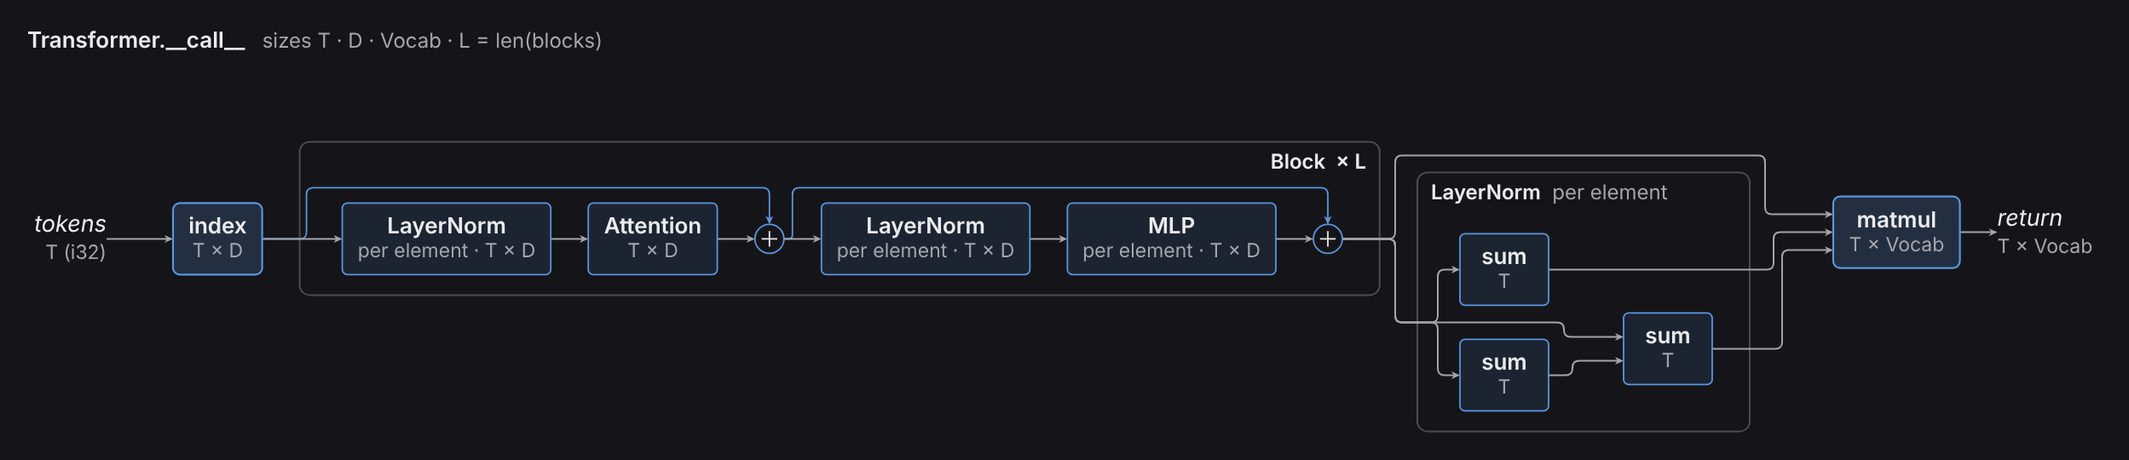
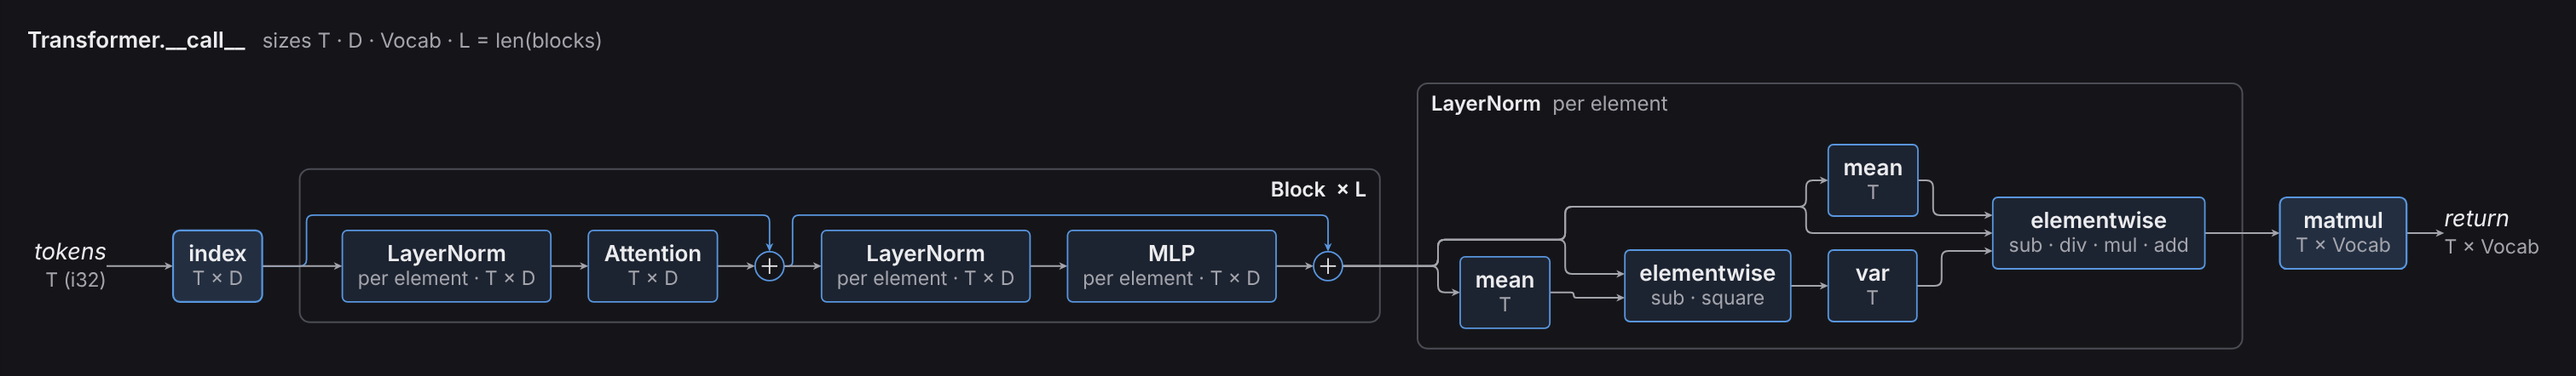
Diagrams: opened calls have one way in and out; elementwise joins are boxes
Hidden arithmetic that joins values from different boxes becomes one
'elementwise' box naming its ops, so an opened call's dataflow is complete
and edges from outside touch only its entry and exit ports. A sum divided
by its count is labelled mean, the sum inside jnp.var/std var. A second
layout pass orders entry ports by where their values come from. Fixes the
tangle around the final LayerNorm at depth 2 and in Mixer's scan.

Claude-Session: https://claude.ai/code/session_019hQ6YQybxuL6LJ78FKTkk6

diff --git a/src/expex/_diagram.html b/src/expex/_diagram.html
@@ -144,13 +144,18 @@ function show(k, anchor) {
     const s = Math.max(base.w / minW, base.h / minH);
     base = {x: base.x - (minW * s - base.w) / 2, y: base.y, w: minW * s, h: minH * s};
   }
-  if (anchor && vb) {  // keep the clicked call where it was on the screen
+  if (anchor && vb) {  // keep the clicked call where it was on the screen, zoomed out if the figure grew
     const g = el.querySelector(`[data-box="${anchor.box}"]`);
+    const grow = Math.max(1, base.w / vb.w, base.h / vb.h);
+    vb = {...vb, w: vb.w * grow, h: vb.h * grow};
     setViewBox();
     if (g) {
       const r = g.getBoundingClientRect(), s = el.getScreenCTM().a;
       vb = {...vb, x: vb.x + (r.left - anchor.left) / s, y: vb.y + (r.top - anchor.top) / s};
     }
+    const clamp = (v, lo, hi) => Math.min(Math.max(v, Math.min(lo, hi)), Math.max(lo, hi));
+    vb.x = clamp(vb.x, base.x + base.w - vb.w, base.x);  // and the whole figure in view, if it fits
+    vb.y = clamp(vb.y, base.y + base.h - vb.h, base.y);
   } else vb = {...base};
   setViewBox();
   wire(el);

diff --git a/src/expex/_diagram.py b/src/expex/_diagram.py
@@ -264,7 +264,10 @@ class _Builder:
         self.fail = -1  # the failing call's box (see ``error``)
         self.error: dict[str, Any] | None = None
         self.boxes: list[dict[str, Any]] = []
-        self.atoms: list[list[Any]] = []  # [box, label or None (passed through), kind]
+        self.atoms: list[list[Any]] = []  # [box, label or None (passed through), kind, primitive]
+        self.sums: dict[Any, tuple[int, int]] = {}  # a reduce_sum's result (through reshapes) -> (atom, count)
+        self.within: list[str] = []  # the names of the jit-ed functions being walked (``_var``, ...)
+        self.made: dict[Any, str] = {}  # each variable's primitive
         self.data: list[bool] = []  # depends on an input (else on constants and sizes only)
         self.near: list[frozenset[int]] = []  # the nearest drawn atoms each atom is computed from
         self.edges: list[tuple[int, int, int]] = []  # (from atom, to atom, type index)
@@ -288,7 +291,7 @@ class _Builder:
 
     def atom(self, box: int, label: str | None, kind: str, ins: list[Any], env: dict[Any, list[int]], eqn: Any = None) -> int:  # fmt: skip
         me = len(self.atoms)
-        self.atoms.append([box, label, kind])
+        self.atoms.append([box, label, kind, eqn.primitive.name if eqn is not None else ""])
         if self.flops is not None:
             n = _cost.flops(types.SimpleNamespace(eqns=[eqn]), []).value if eqn is not None else 0
             self.flops.append(float(n or 0) * self.mult)
@@ -336,15 +339,45 @@ class _Builder:
                 body = self.sub(p["body_jaxpr"], box, srcs(eqn.invars[nc : nc + nb]) + init)
                 outs = [a + c for a, c in zip(init, body)]
             elif (subs := [j for _, j in sub_jaxprs(p)]) and len(subs[0].invars) == len(eqn.invars):
+                self.within.append(str(p.get("name", "")))
                 outs = self.sub(subs[0], b, srcs(eqn.invars))  # jit, custom_jvp, remat, ...: inline
+                self.within.pop()
             if outs is None:
                 label = OPS.get(name)
+                if name == "reduce_sum" and self.within and self.within[-1].lstrip("_") == "var":
+                    label = "var"  # inside jnp.var (or std): the sum of squared deviations
+                self.mean(eqn, env)
                 if name == "gather" and not any(self.data[a] for a in _get(env, eqn.invars[1])):
                     label = None  # a slice by sizes, not a lookup
                 if name == "add" and self.joins(eqn, env):
                     label = "+"  # two computed values of one shape: a residual or skip connection
                 outs = [[self.atom(b, label, "op", eqn.invars, env, eqn)]] * len(eqn.outvars)
+                if name == "reduce_sum" and label:
+                    shape = getattr(eqn.invars[0].aval, "shape", ())
+                    self.sums[eqn.outvars[0]] = (outs[0][0], math.prod(shape[a] for a in p["axes"]) if shape else 1)
             env.update({o: s for o, s in zip(eqn.outvars, outs) if _type(o.aval) is not None})
+            self.made.update((o, name) for o in eqn.outvars)
+
+    def mean(self, eqn: Any, env: dict[Any, list[int]]) -> None:
+        """Relabel a ``sum`` divided by the number of elements it adds up (``jnp.mean``) as ``mean``."""
+        name, ins = eqn.primitive.name, eqn.invars
+        if not ins or type(ins[0]).__name__ == "Literal" or ins[0] not in self.sums:
+            return
+        if name in ("broadcast_in_dim", "reshape", "squeeze", "expand_dims", "convert_element_type"):
+            self.sums[eqn.outvars[0]] = self.sums[ins[0]]
+        elif name == "div" and len(ins) == 2:
+            atom, n = self.sums[ins[0]]
+            d = ins[1]
+            if type(d).__name__ == "Literal":
+                try:
+                    count = float(d.val) == n
+                except (TypeError, ValueError):
+                    count = False
+            else:  # a symbolic size: the count itself as a float, not a sum of it with something (n - ddof)
+                count = (self.made.get(d) == "convert_element_type" and getattr(d.aval, "shape", None) == ()
+                         and not any(self.data[a] for a in _get(env, d)))  # fmt: skip
+            if count and self.atoms[atom][1] in ("sum", "var"):
+                self.atoms[atom][1] = "mean"
 
     def joins(self, eqn: Any, env: dict[Any, list[int]]) -> bool:
         """Whether an ``add`` joins two branches: both depend on the inputs, have one shape, and neither is
@@ -459,7 +492,7 @@ def _view(m: dict[str, Any], expanded: set[int], full: bool = False) -> tuple[li
         rep.append(up if up is not None else i if b["k"] == "call" and not (b["o"] and i in expanded) else None)
     nodes: dict[str, tuple[str, str, str, int]] = {}
     key: list[str] = []
-    for i, (box, label, kind) in enumerate(atoms):
+    for i, (box, label, kind, *_) in enumerate(atoms):
         r = rep[box] if box >= 0 else None
         if r is not None:
             key.append(f"b{r}")
@@ -469,6 +502,7 @@ def _view(m: dict[str, Any], expanded: set[int], full: bool = False) -> tuple[li
             nodes[key[-1]] = (key[-1], kind, label, box)
         else:
             key.append(f"h{i}")
+    _elementwise(m, key, nodes)
     succ: dict[str, list[tuple[str, int]]] = {}
     for a, b, t in m["edges"]:
         if key[a] != key[b]:
@@ -494,6 +528,77 @@ def _view(m: dict[str, Any], expanded: set[int], full: bool = False) -> tuple[li
     if full:  # (from, to, type, type leaving the source, type entering the target)
         return list(nodes.values()), [(u, v, *t) for (u, v), t in edges.items()], sorted(drawn), fail
     return list(nodes.values()), [(u, v, t[0]) for (u, v), t in edges.items()], sorted(drawn), fail
+
+
+#: Short names for the operations an ``elementwise`` node stands for; others (reshapes, ...) go unnamed.
+_MATH = {"sub": "sub", "div": "div", "mul": "mul", "add": "add", "neg": "neg", "abs": "abs", "max": "max",
+         "min": "min", "integer_pow": "pow", "pow": "pow", "square": "square", "sqrt": "sqrt", "rsqrt": "rsqrt",
+         "exp": "exp", "log": "log", "log1p": "log1p", "tanh": "tanh", "logistic": "sigmoid", "erf": "erf",
+         "select_n": "where", "sign": "sign", "exp2": "exp2", "sin": "sin", "cos": "cos"}  # fmt: skip
+
+
+def _elementwise(m: dict[str, Any], key: list[str], nodes: dict[str, tuple[str, str, str, int]]) -> None:
+    """Make the hidden operations that join values from different nodes visible, as ``elementwise`` nodes.
+
+    Hidden operations are passed through, which is right for a chain (``gelu(x @ w)``) but loses the
+    dataflow where two values meet: ``(x - mean) / std`` would make ``x``, ``mean`` and ``std`` each
+    feed what follows. A hidden atom whose inputs come from different nodes is a join; a join and
+    the hidden atoms after it (up to the next node) become one node, and joins whose runs meet are
+    one node too. Changes ``key`` and ``nodes`` in place.
+    """
+    atoms = m["atoms"]
+    preds: dict[int, list[int]] = defaultdict(list)
+    for a, b, _ in m["edges"]:
+        preds[b].append(a)
+    hidden = lambda i: key[i][0] == "h"
+    seen: list[frozenset[str]] = []  # the nodes each atom's value comes from (itself if it is one)
+    joins = []
+    for i in range(len(atoms)):
+        sets = [seen[a] for a in preds[i]]
+        seen.append(frozenset({key[i]}) if not hidden(i) else frozenset().union(*sets))
+        if hidden(i) and len(set(sets)) >= 2 and len(seen[i]) >= 2:
+            joins.append(i)
+    if not joins:
+        return
+    succ: dict[int, list[int]] = defaultdict(list)
+    for a, b, _ in m["edges"]:
+        succ[a].append(b)
+    parent = {j: j for j in joins}
+
+    def find(j: int) -> int:
+        while parent[j] != j:
+            parent[j] = parent[parent[j]]
+            j = parent[j]
+        return j
+
+    owner: dict[int, int] = {}  # hidden atom -> a join whose run it is in
+    for j in joins:
+        todo = [j]
+        while todo:
+            a = todo.pop()
+            if a in owner:
+                if find(owner[a]) != find(j):
+                    parent[find(owner[a])] = find(j)
+                continue
+            owner[a] = j
+            todo += [b for b in succ[a] if hidden(b) and atoms[b][0] == atoms[j][0]]
+    runs: dict[int, list[int]] = defaultdict(list)
+    for a, j in owner.items():
+        runs[find(j)].append(a)
+    for root, members in runs.items():
+        members.sort()
+        names = list(dict.fromkeys(_MATH[atoms[a][3]] for a in members if len(atoms[a]) > 3 and atoms[a][3] in _MATH))
+        text = " · ".join(names[:4]) + (" …" if len(names) > 4 else "")
+        nid = f"e{members[0]}"
+        for a in members:
+            key[a] = nid
+        nodes[nid] = (nid, "op", "elementwise" + (f"\n{text}" if text else ""), atoms[members[0]][0])
+    order: dict[str, int] = {}  # nodes in the order their first atom comes
+    for i, k in enumerate(key):
+        order.setdefault(k, i)
+    items = sorted(nodes.items(), key=lambda kv: order.get(kv[0], 0))
+    nodes.clear()
+    nodes.update(items)
 
 
 def _feeds(edges: list[tuple[str, str, str]], node: str | None) -> tuple[set[str], set[int]]:
@@ -936,6 +1041,9 @@ class _Scene:
         if kind == "op":
             if n == self.fail:
                 return [[(label, "te")]]
+            if label.startswith("elementwise"):
+                ops = label.split("\n", 1)[1:] or [shape]
+                return [[("elementwise", "tb")], [(ops[0], "ts")]]
             return [[(label, "tb")]] + ([[(shape, "ts")]] if shape else [])
         i = int(n[1:])
         b, err = self.B[i], self.m.get("error")
@@ -1027,8 +1135,16 @@ class _Scene:
             for c in cv[: cv.index(lca)]:
                 self._add(c, (u, self.item_of(v, c)), info, v)
         self.origin: dict[int, tuple[float, float]] = {}
+        self.hints: dict[int, dict[str, float]] = {}
         self.place(-1)
         self.absolute(-1, 0.0, 0.0)
+        if any(p.startswith("i:") for c in self.conts for p in self.at.get(c, {})):
+            # again, with each container's entry ports in the order their values arrive from outside
+            for c in self.conts:
+                self.hints[c] = {p: self._centre(p[2:]) for p in self.at.get(c, {}) if p.startswith("i:")}
+            self.skipped.clear()
+            self.place(-1)
+            self.absolute(-1, 0.0, 0.0)
 
     def _add(self, c: int, key: tuple[str, str], info: dict[str, Any], v: str) -> None:
         e = self.E[c].setdefault(key, dict(label=None, path=False, side=True, final=False))
@@ -1088,11 +1204,10 @@ class _Scene:
         base = 1 if panel else 0
         for it in self._topo(items, pred):
             L[it] = max([L[p] + 1 for p in pred[it]] + [base])
-        fed = {key[1] for key in edges if src[key].startswith("i:")}
         topo = self._topo(items, pred)
-        for it in reversed(topo):
+        for it in reversed(topo):  # what only needs the inputs is computed as late as it can be
             kind = self.nodes[it][1] if it in self.nodes else ""
-            if not pred[it] and succ[it] and kind != "in" and it not in fed:
+            if not pred[it] and succ[it] and kind != "in":
                 L[it] = max(base, min(L[s] for s in succ[it]) - 1)
         last = max(L.values(), default=base - 1) + 1
         for p in ins:
@@ -1135,7 +1250,10 @@ class _Scene:
             by_value.setdefault(u, [])
         for it in sorted(L, key=lambda x: rank.get(x, 0)):
             layers[L[it]].append(it)
-        self._order(layers, hops)
+        hint = self.hints.get(c)
+        if hint:
+            layers[0].sort(key=lambda p: hint.get(p, 0.0))
+        self._order(layers, hops, fixed=bool(hint))
         xs = self._xs(c, layers, hops)
         ys, H, gaps = self._ys(c, layers, hops, xs, panel)
         self.layer[c] = L
@@ -1186,7 +1304,7 @@ class _Scene:
             n += sum(1 for i in range(len(es)) for j in range(i + 1, len(es)) if es[i][0] < es[j][0] and es[i][1] > es[j][1])
         return n
 
-    def _order(self, layers: list[list[str]], hops: list[tuple[str, str, str]]) -> None:
+    def _order(self, layers: list[list[str]], hops: list[tuple[str, str, str]], fixed: bool = False) -> None:
         """Barycentre sweeps (down, then up), keeping the order with the fewest crossings."""
         up: dict[str, list[str]] = defaultdict(list)
         down: dict[str, list[str]] = defaultdict(list)
@@ -1195,8 +1313,8 @@ class _Scene:
             up[b].append(a)
         best, best_n = [list(x) for x in layers], self._crossings(layers, hops)
         for sweep in range(8):
-            rng = range(1, len(layers)) if sweep % 2 == 0 else range(len(layers) - 2, -1, -1)
-            for k in rng:
+            rng = range(1, len(layers)) if sweep % 2 == 0 else range(len(layers) - 2, 0 if fixed else -1, -1)
+            for k in rng:  # with ``fixed``, the entry ports (layer 0) keep their order
                 ref = layers[k - 1] if sweep % 2 == 0 else layers[k + 1]
                 where = {it: j for j, it in enumerate(ref)}
                 nb = up if sweep % 2 == 0 else down
@@ -1416,6 +1534,12 @@ class _Scene:
             branch = sy + (4 if s.startswith("i:") else 5)
             self.segs[c][(u, t)] = [(sx, sy), (sx, branch), (above, branch), (above, mid), (tx, mid)]
             self.skipped.add((u, t))
+
+    def _centre(self, n: str) -> float:
+        """Where node ``n`` sits across the flow (absolute), from the previous layout."""
+        c = self.ncont[n]
+        o = self.origin[c][0] + self.at[c][n][0]
+        return o + self.size[n][0] / 2
 
     def absolute(self, c: int, x0: float, y0: float) -> None:
         self.origin[c] = (x0, y0)
@@ -2081,7 +2205,7 @@ def _estimated(b: _Builder, why: str) -> dict[str, Any]:
     flops = b.flops or []
     t = [0.0] * len(b.boxes)
     outside = 0.0
-    for (box, _, _), x in zip(b.atoms, flops):
+    for (box, *_), x in zip(b.atoms, flops):
         if box < 0:
             outside += x
         while box >= 0:

diff --git a/tests/test_diagram.py b/tests/test_diagram.py
@@ -137,6 +137,14 @@ def test_transformer_depth_2(transformer):
     loops = [el for el in root if el.tag == NS + "path" and el.get("class") == "k-s0"]
     assert len(loops) == 2  # the residuals: thin lines in the stream's colour, looping over the row
     assert drawn(d, "Attention")[1] == "f-s0c k-s0"  # inside a panel, boxes are paler
+    # the final LayerNorm, opened: its elementwise arithmetic is one node, so the dataflow stays whole
+    (ln,) = [int(b[1:]) for b, label in d.boxes.items() if label == "LayerNorm.__call__"]
+    inner = {n[0]: n[2] for n in d.nodes if n[3] == ln}
+    assert sorted(inner.values()) == ["elementwise\nsub · div · mul · add", "elementwise\nsub · square", "mean", "mean", "var"]
+    leaving = {u for u, v, _ in d.edges if u in inner and v not in inner}
+    assert [inner[u] for u in leaving] == ["elementwise\nsub · div · mul · add"]  # one value leaves the panel
+    entering = {u for u, v, _ in d.edges if v in inner and u not in inner}
+    assert len(entering) == 1  # and one enters it
 
 
 def test_attention(transformer):
@@ -181,8 +189,8 @@ def test_mixer_time_loop(mamba):
     d2 = diagram(mamba.Mixer.__call__, depth=2)
     loop = [b for b, label in d2.boxes.items() if label == "× T"]
     assert loop and "selective_scan" in d2.boxes.values()
-    (inside,) = [n for n in d2.nodes if f"b{n[3]}" == loop[0]]
-    assert inside[2] == "matmul"  # h @ C[t]
+    inside = sorted(n[2] for n in d2.nodes if f"b{n[3]}" == loop[0])
+    assert inside == ["elementwise\nmul · add", "matmul"]  # h = exp(dt A) h + dt u B, then h @ C[t]
     assert titles(d2) == ["Mixer.conv", "selective_scan", "loop  × T"]
     check_svg(d2)
     texts = text(ET.fromstring(d.svg))
@@ -205,6 +213,21 @@ def gate[T, D](x: f32[T, D], w: f32[D, D]) -> f32[T, D]:
     while y.max() > 1.0:
         y = y / 2
     return y
+
+
+@expex.fn
+def norm[D](x: f32[D]) -> f32[D]:
+    return (x - x.mean()) / jnp.sqrt(((x - x.mean()) ** 2).sum() / 4.0)
+
+
+def test_elementwise_and_mean():
+    d = diagram(norm)
+    ops = labels(d, "op")
+    assert ops.count("mean") == 2 and "sum" in ops  # a sum divided by its count is a mean; by 4.0 it is not
+    (last,) = [n for n in d.nodes if n[2].startswith("elementwise") and "div" in n[2]]
+    assert edge(d, last[2], "return") == "f32[D]"  # the arithmetic that joins x and the means feeds the result
+    assert {u for u, v, _ in d.edges if v == node(d, "return")[0]} == {last[0]}
+    check_svg(d)
 
 
 def test_branches_and_while():

diff --git a/docs/cost-and-diagrams.md b/docs/cost-and-diagrams.md
@@ -95,7 +95,8 @@ expex.diagram(Stack.__call__, B=64, blocks=24)     # sizes and list lengths, as 
 For the transformer in `examples/`, `expex.diagram(Transformer.__call__, depth=2)`
 draws the flow from left to right: the input `tokens` (`T (i32)`), `index`,
 then a rounded container titled `Block × L` holding `LayerNorm → Attention → ⊕
-→ LayerNorm → MLP → ⊕`, then the final `LayerNorm`, `matmul` and `return`
+→ LayerNorm → MLP → ⊕`, then the final `LayerNorm` opened (`mean`, `var` and
+the `elementwise` arithmetic that normalises), `matmul` and `return`
 (`T × Vocab`). Each box has its name in bold and, in grey, what it produces
 (`per element · T × D` for a call made with `.vectorize`). A header names the
 function and its sizes (`T · D · Vocab · L = len(blocks)`). `print(d)` gives
@@ -122,11 +123,16 @@ Transformer.__call__
   layers. The selective scan in `examples/mamba/` is a container `loop × T`.
   A traced `if` or `while` is a dashed container too.
 - Between calls, only operations that say what the model does are drawn
-  (`matmul`, `index`, `sum`, `conv`, ...). So is a `⊕` where two computed
-  values of one shape are added. When that is a residual, its skip is a thin
-  line in the stream's colour that loops over the row into the `⊕`. Reshapes
-  and other elementwise arithmetic are skipped, with arrows drawn straight
-  across them.
+  (`matmul`, `index`, `sum`, `conv`, ...). A `sum` divided by the number of
+  elements it adds is drawn as `mean`, and one inside `jnp.var` or `jnp.std`
+  as `var`. A `⊕` is drawn where two computed values of one shape are added.
+  When that is a residual, its skip is a thin line in the stream's colour that
+  loops over the row into the `⊕`. Arithmetic that only transforms one value
+  (reshapes, `gelu`, ...) is skipped, with arrows drawn straight across it.
+  Arithmetic where values meet becomes one `elementwise` box that names its
+  operations, so `(x - mean) / std * scale + bias` is `elementwise` with
+  `sub · div · mul · add` and the dataflow stays whole. An opened call has one
+  entry per value that comes in and one exit per value that leaves.
 - Where an array is sliced on its way into a call, the shape it enters with is
   written by the arrow.
 - Each input is a stream with its own colour (blue, violet, green, ...), and
